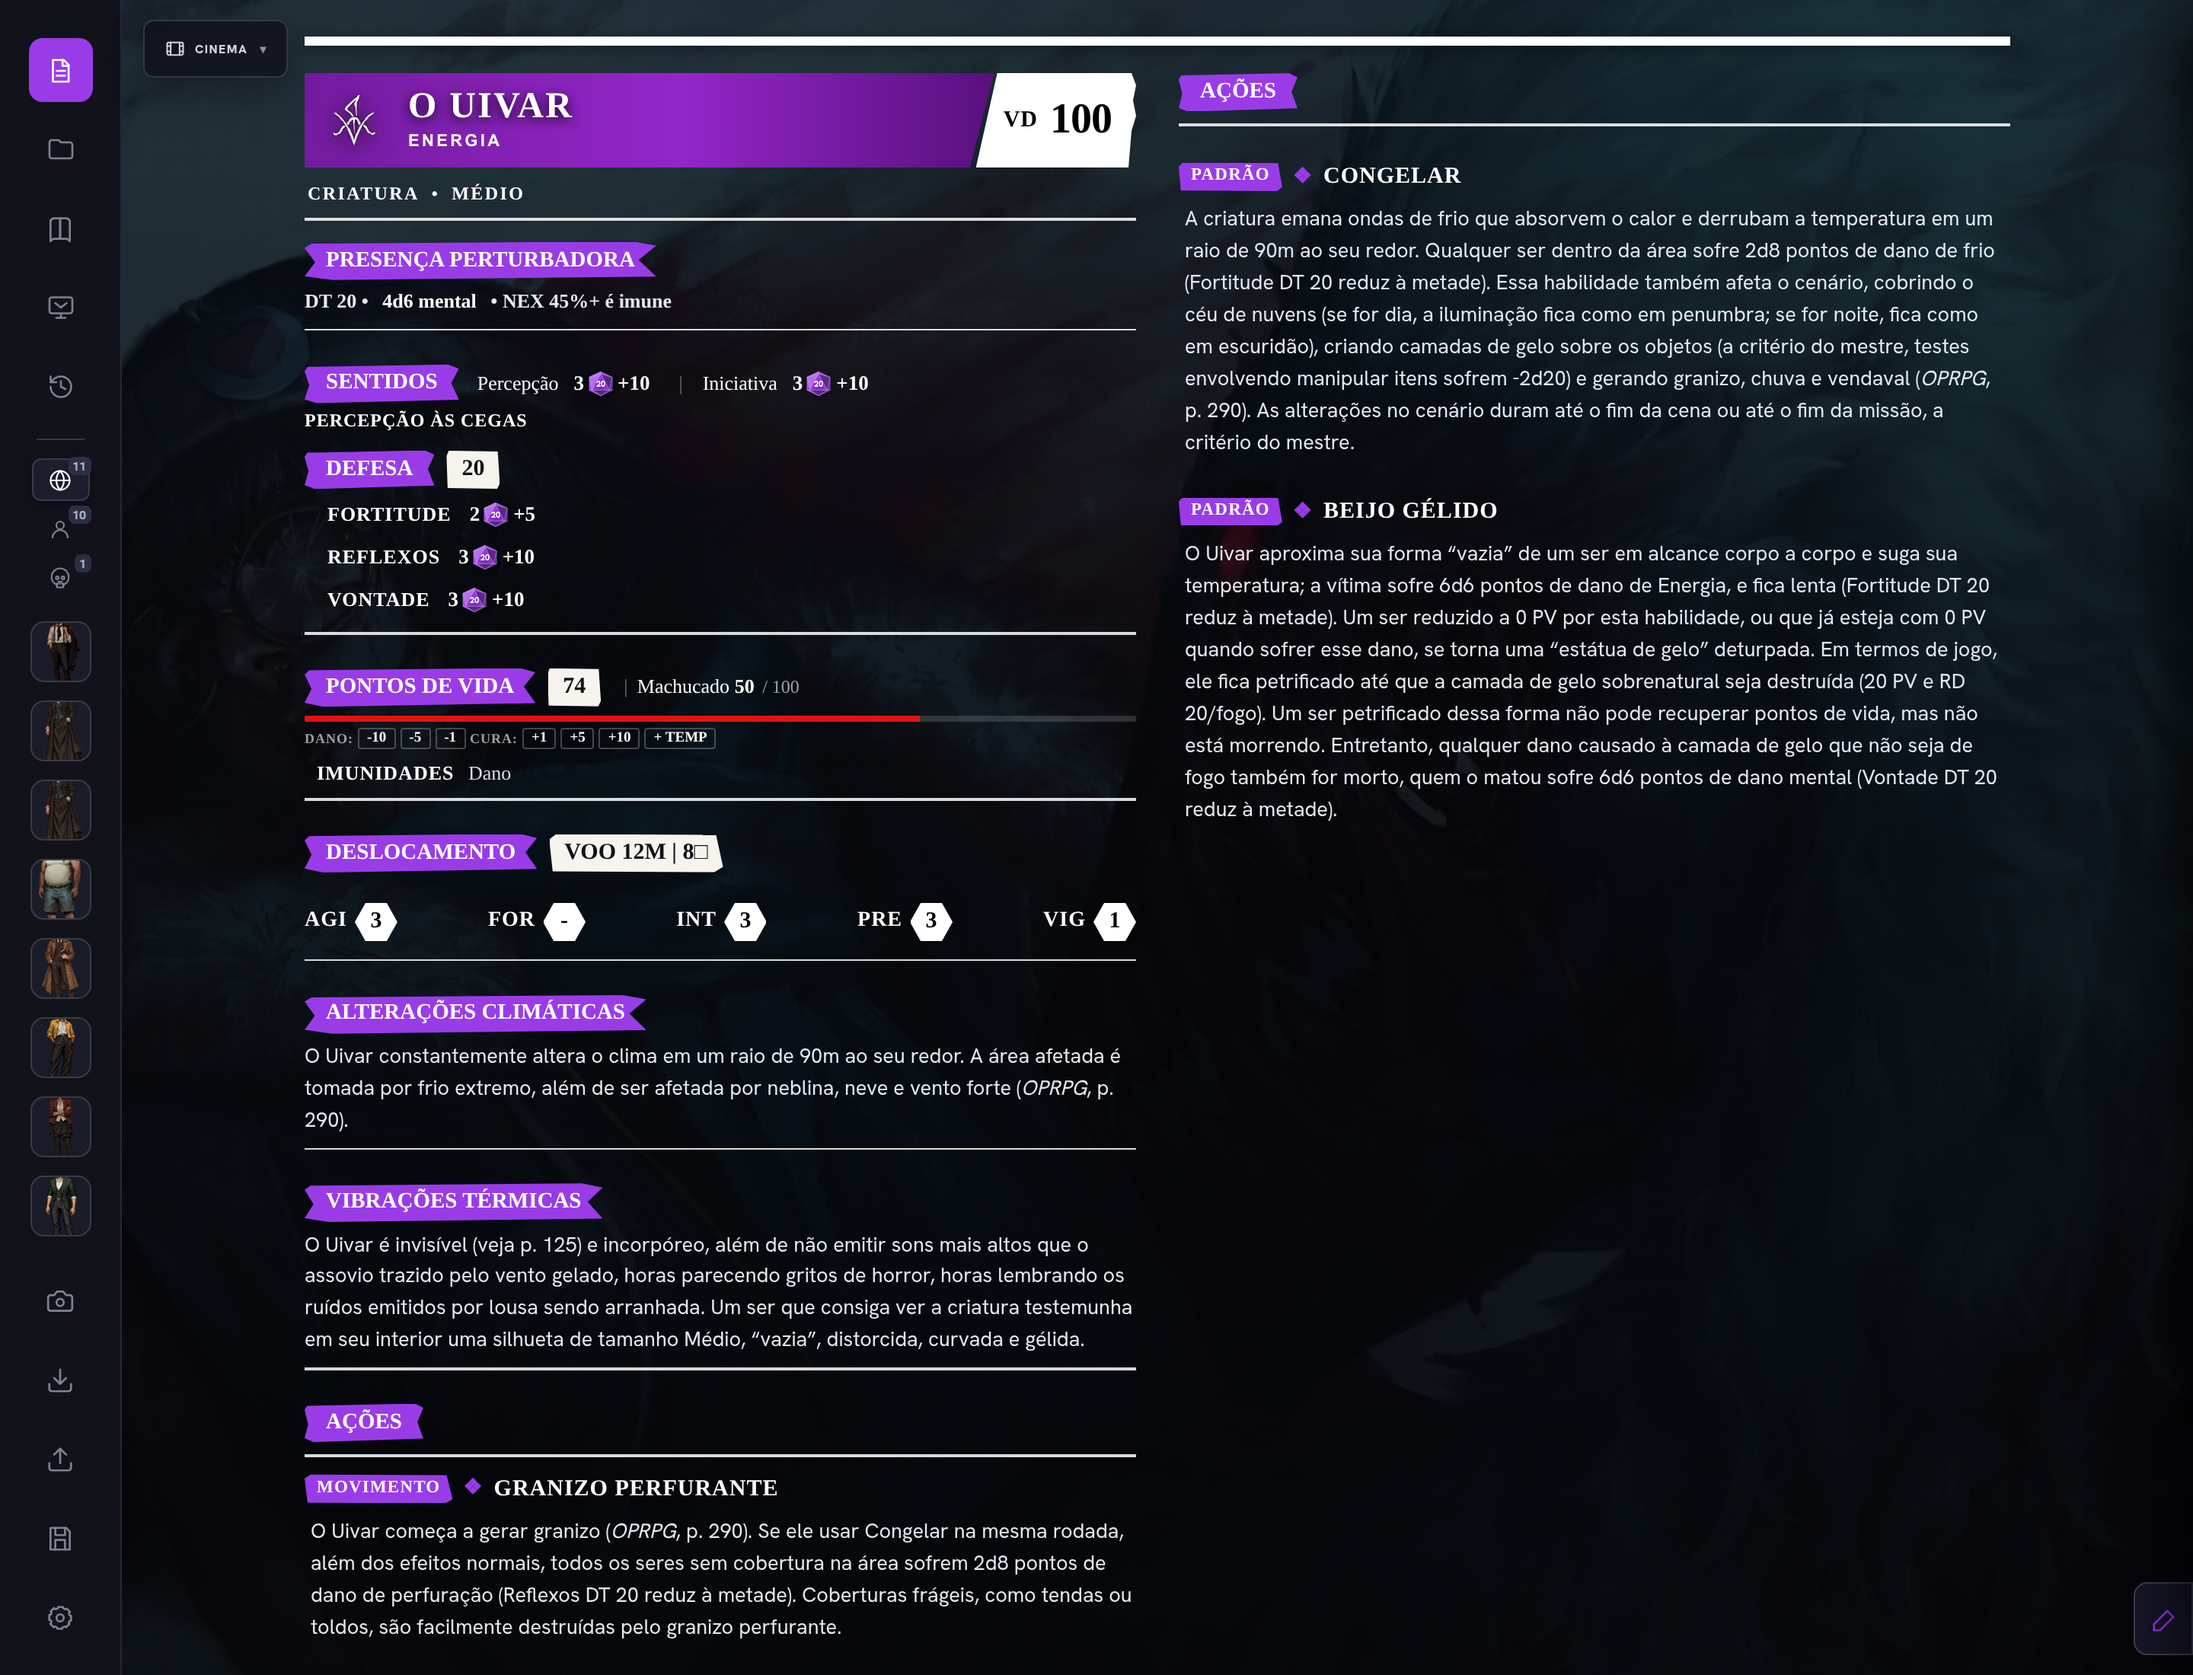
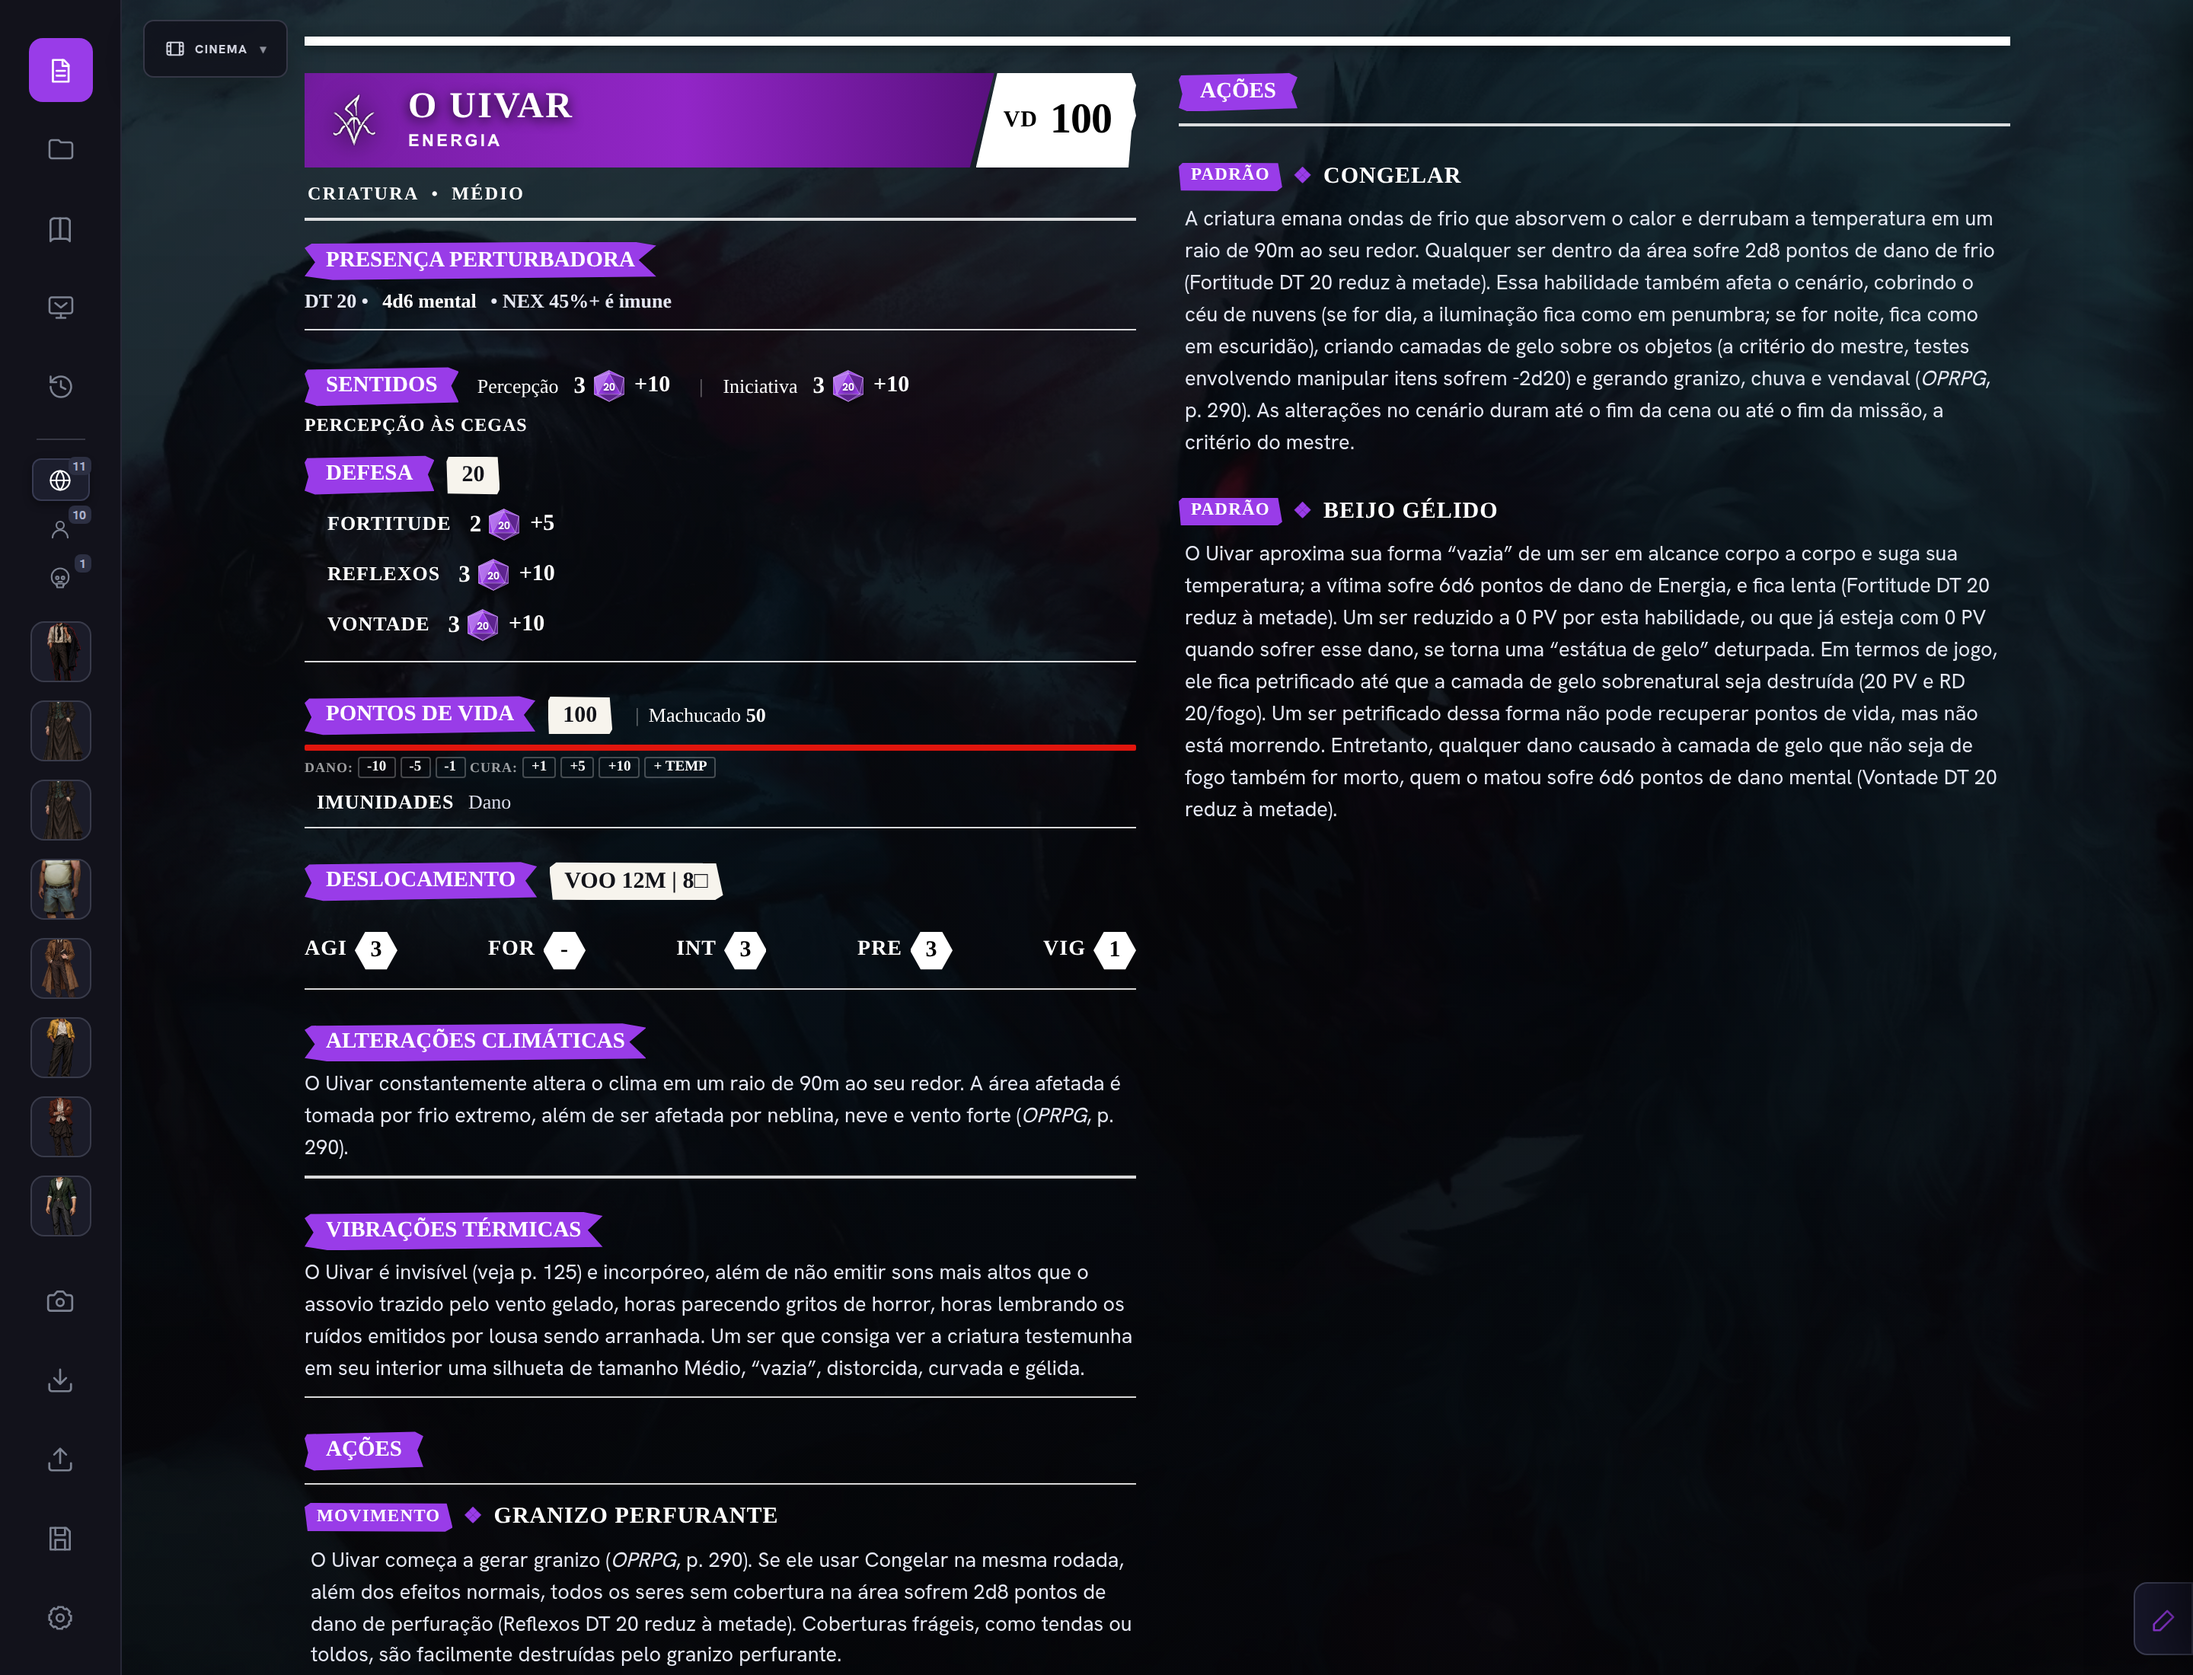
ficha de ameaça: tamanho dos dados aumentado e fix pra scroll não funcionando

diff --git a/src/app.js b/src/app.js
@@ -1005,7 +1005,7 @@ function bindRollLogItemEvents(container = document) {
  });
 }
 
-function render(){syncDraftBaseline();syncUnsavedBar();document.querySelectorAll('.cinematic-ghost-exit').forEach(el=>el.remove());document.body.classList.toggle('navigator-pinned',Boolean(sidebarNavigatorPinned&&sidebarNavigatorOpen));const isCinematic=presentationMode||state.viewMode==='cinematic';const previousScroll={sheet:app.querySelector('.sheet-main')?.scrollTop||0,right:app.querySelector('.right-panel')?.scrollTop||0,traditionalPage:app.querySelector('.traditional-dossier-page')?.scrollTop||0,cinematicRight:app.querySelector('.cinematic-scroll')?.scrollTop||0,cinematicSkills:app.querySelector('.cinematic-skills>div')?.scrollTop||0,sheetSwitcher:app.querySelector('.sheet-switcher')?.scrollTop||0};applyTheme();const bgIsVideo=!!(state.backgroundImage&&state.backgroundImage.startsWith('data:video/'));const trainingOptions=TRAINING.map(([label,value])=>({value:label,label,html:`${die(value,'menu-die',value>4)}<span>d${value} — ${label}</span>`})),aptidaoOptions=APTIDAO_FIELDS.map(value=>({value,label:value})),aptidaoCount=Array.isArray(state.skills)?state.skills.filter(s=>s.name.startsWith('APTIDÃO')).length:0;app.innerHTML=`
+function render(){syncDraftBaseline();syncUnsavedBar();document.querySelectorAll('.cinematic-ghost-exit').forEach(el=>el.remove());document.body.classList.toggle('navigator-pinned',Boolean(sidebarNavigatorPinned&&sidebarNavigatorOpen));const isCinematic=presentationMode||state.viewMode==='cinematic';const previousScroll={sheet:app.querySelector('.sheet-main')?.scrollTop||0,right:app.querySelector('.right-panel')?.scrollTop||0,traditionalPage:app.querySelector('.traditional-dossier-page')?.scrollTop||0,threatPage:app.querySelector('.threat-book-page')?.scrollTop||0,cinematicRight:app.querySelector('.cinematic-scroll')?.scrollTop||0,cinematicSkills:app.querySelector('.cinematic-skills>div')?.scrollTop||0,sheetSwitcher:app.querySelector('.sheet-switcher')?.scrollTop||0};applyTheme();const bgIsVideo=!!(state.backgroundImage&&state.backgroundImage.startsWith('data:video/'));const trainingOptions=TRAINING.map(([label,value])=>({value:label,label,html:`${die(value,'menu-die',value>4)}<span>d${value} — ${label}</span>`})),aptidaoOptions=APTIDAO_FIELDS.map(value=>({value,label:value})),aptidaoCount=Array.isArray(state.skills)?state.skills.filter(s=>s.name.startsWith('APTIDÃO')).length:0;app.innerHTML=`
 
 	  <aside class="nav-rail compact-rail"><button class="nav-btn active main-sheet-icon" title="Ficha principal">${state.tokenImage?`<img src="${safeUrl(state.tokenImage)}" alt="" draggable="false">`:icon('sheet')}</button><button type="button" class="nav-btn ${sidebarNavigatorOpen?'active':''}" data-toggle-navigator title="Navegador de pastas e fichas">${icon('folder',18)}</button><button class="nav-btn" ${state.systemMode==='original'?'data-open-compendium title="Compêndio"':'data-compendium title="Compêndio (em breve)"'}>${icon('book')}</button><button type="button" class="nav-btn" data-open-presentation title="Modo de Apresentação / Seleção de Agentes (Dossiês)">${icon('presentation',18)}</button><button type="button" class="nav-btn btn-nav-roll-log" data-open-roll-log title="Histórico de rolagens (H)">${icon('history',18)}<span class="roll-log-badge ${rollLog.length?'visible':''}" id="nav-roll-badge">${rollLog.length||''}</span></button><div class="nav-separator"></div>${renderRailScopePills(sidebarScope,sheets)}${renderRailSwitcher(sheets,folders,state.id,{scope:sidebarScope,visibleFolderIds:appSettings.sidebarVisibleFolderIds,safeUrl})}<span class="nav-spacer"></span><button class="nav-btn" data-export-cinematic-image title="Exportar imagem da ficha cinematográfica (PNG HD)">${icon('camera')}</button><button class="nav-btn" data-export-json title="Exportar ficha em JSON">${icon('download')}</button><button class="nav-btn" data-import-json title="Importar ficha em JSON">${icon('upload')}</button><input type="file" id="json-file-input" accept=".json,application/json" style="display:none"><button class="nav-btn" data-save-sheet title="Salvar ficha (disco e navegador)">${icon('save')}</button><button class="nav-btn" data-critical-settings title="Configurar efeitos críticos">${icon('settings')}</button></aside>
 
@@ -1035,7 +1035,7 @@ function render(){syncDraftBaseline();syncUnsavedBar();document.querySelectorAll
   ${renderMobileSheetDrawer(sheets,folders,state.id,{open:sheetDrawerOpen,searchQuery:mobileSearchQuery,rollLogCount:rollLog.length,safeUrl})}
   ${renderRollLogDrawer()}
   ${isCinematic?renderMobileOrientationPrompt():''}
-	 `;bind();syncMobilePresentationViewport();syncCriticalAtmosphere();const bgVideoEl=app.querySelector('.bg-video');if(bgVideoEl&&state.backgroundImage){if(!bgVideoEl.src)bgVideoEl.src=state.backgroundImage;bgVideoEl.play().catch(()=>{})}const sheetMain=app.querySelector('.sheet-main'),rightPanel=app.querySelector('.right-panel'),traditionalPage=app.querySelector('.traditional-dossier-page'),cinematicRight=app.querySelector('.cinematic-scroll'),cinematicSkills=app.querySelector('.cinematic-skills>div'),sheetSwitcher=app.querySelector('.sheet-switcher');if(sheetMain)sheetMain.scrollTop=previousScroll.sheet;if(rightPanel)rightPanel.scrollTop=previousScroll.right;if(traditionalPage)traditionalPage.scrollTop=previousScroll.traditionalPage;if(cinematicRight)cinematicRight.scrollTop=previousScroll.cinematicRight;if(cinematicSkills)cinematicSkills.scrollTop=previousScroll.cinematicSkills;if(sheetSwitcher)sheetSwitcher.scrollTop=previousScroll.sheetSwitcher;modeJustChanged=false;editTransitionMode=null}
+	 `;bind();syncMobilePresentationViewport();syncCriticalAtmosphere();const bgVideoEl=app.querySelector('.bg-video');if(bgVideoEl&&state.backgroundImage){if(!bgVideoEl.src)bgVideoEl.src=state.backgroundImage;bgVideoEl.play().catch(()=>{})}const sheetMain=app.querySelector('.sheet-main'),rightPanel=app.querySelector('.right-panel'),traditionalPage=app.querySelector('.traditional-dossier-page'),threatPage=app.querySelector('.threat-book-page'),cinematicRight=app.querySelector('.cinematic-scroll'),cinematicSkills=app.querySelector('.cinematic-skills>div'),sheetSwitcher=app.querySelector('.sheet-switcher');if(sheetMain)sheetMain.scrollTop=previousScroll.sheet;if(rightPanel)rightPanel.scrollTop=previousScroll.right;if(traditionalPage)traditionalPage.scrollTop=previousScroll.traditionalPage;if(threatPage)threatPage.scrollTop=previousScroll.threatPage;if(cinematicRight)cinematicRight.scrollTop=previousScroll.cinematicRight;if(cinematicSkills)cinematicSkills.scrollTop=previousScroll.cinematicSkills;if(sheetSwitcher)sheetSwitcher.scrollTop=previousScroll.sheetSwitcher;modeJustChanged=false;editTransitionMode=null}
 
 
 function collectActiveInputs(){

diff --git a/src/systems/threat/threat.css b/src/systems/threat/threat.css
@@ -6,7 +6,8 @@
 
 .threat-book-page {
   position: relative;
-  min-height: 100vh;
+  height: 100vh;
+  height: 100dvh;
   margin-left: 80px;
   background-color: #07080d;
   color: #f1f2f8;
@@ -15,7 +16,7 @@
   align-items: center;
   overflow-y: auto;
   overflow-x: hidden;
-  padding: 24px 20px 80px 20px;
+  padding: 24px 20px 120px 20px;
   scrollbar-width: thin;
   scrollbar-color: #2b2e45 transparent;
   user-select: text;
@@ -34,7 +35,9 @@
 @media (max-width: 768px) {
   .threat-book-page {
     margin-left: 0;
-    padding: 12px 8px 80px 8px;
+    height: 100vh;
+    height: 100dvh;
+    padding: 12px 8px 120px 8px;
   }
 }
 
@@ -657,37 +660,39 @@
 .threat-pool-group {
   display: inline-flex;
   align-items: center;
-  gap: 1px;
+  gap: 2px;
   font-family: Georgia, 'Times New Roman', serif;
   font-weight: 700;
   vertical-align: middle;
 }
 
 .threat-pool-group > b:first-child {
-  font-size: 13.5px;
+  font-size: 15.5px;
   font-weight: 700;
   color: #ffffff;
+  line-height: 1;
 }
 
 .threat-bonus-val {
   font-family: Georgia, 'Times New Roman', serif;
   font-weight: 700;
-  font-size: 13.5px;
+  font-size: 15px;
   color: #ffffff;
-  margin-left: 1px;
+  margin-left: 2px;
   white-space: nowrap;
+  line-height: 1;
 }
 
 /* ── Dados Tabletop RPG 3D (Com Facetas, Sombras e Destaques) ─────────────── */
 .die-svg.threat-tabletop-die {
   display: inline-flex !important;
-  width: 17px !important;
-  height: 18px !important;
-  min-width: 17px !important;
-  min-height: 18px !important;
-  vertical-align: -3px !important;
-  margin: 0 1px !important;
-  filter: drop-shadow(0 1px 2px rgba(0, 0, 0, 0.5)) !important;
+  width: 22px !important;
+  height: 23px !important;
+  min-width: 22px !important;
+  min-height: 23px !important;
+  vertical-align: -4.5px !important;
+  margin: 0 2px !important;
+  filter: drop-shadow(0 2px 3px rgba(0, 0, 0, 0.6)) !important;
   color: var(--threat-elem-color, #e0150d) !important;
   transition: transform 0.12s ease;
 }
